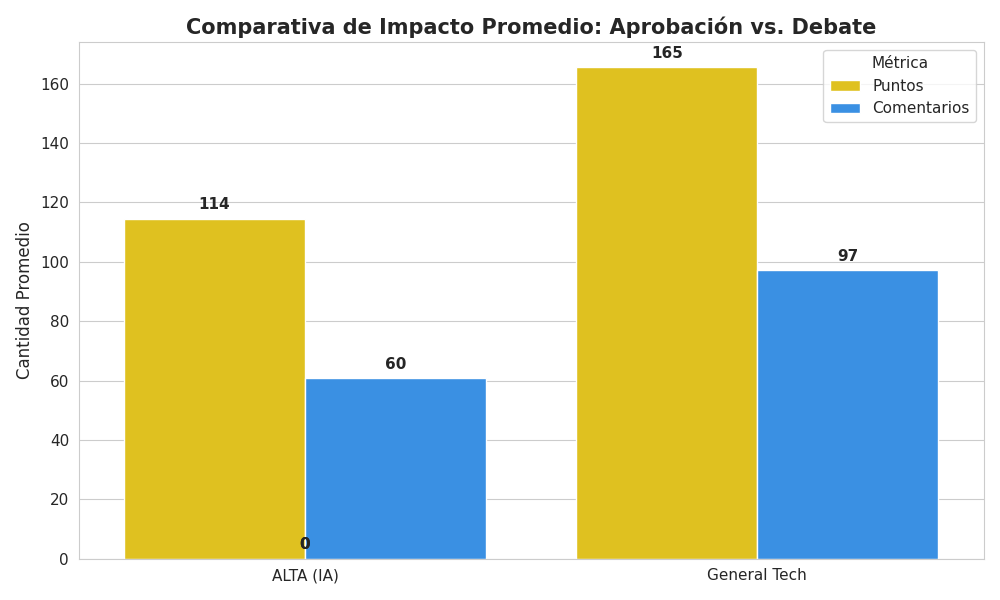
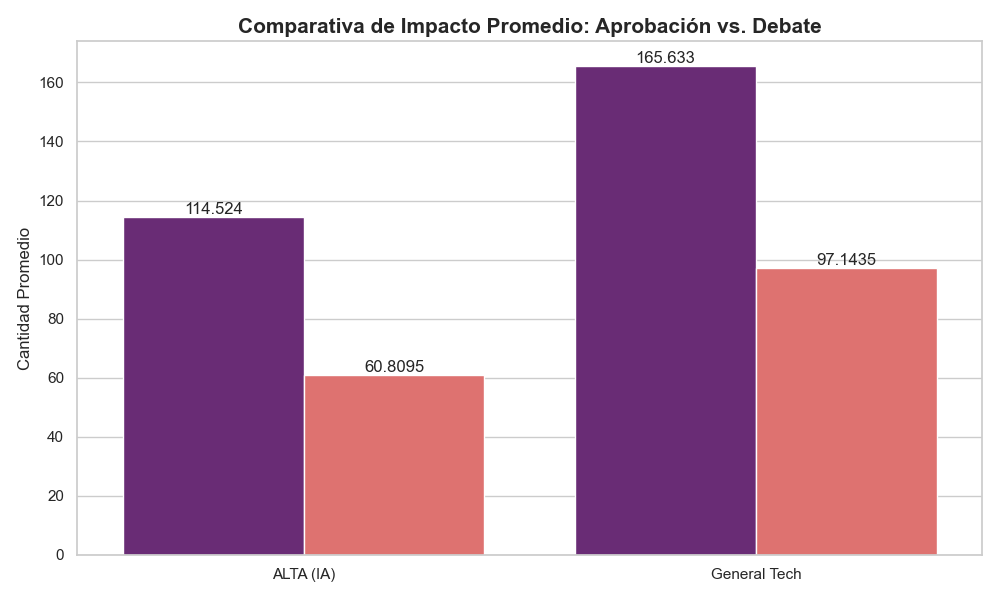
chore: figures

diff --git a/visualization/bruno/graphics_bruno.py b/visualization/bruno/graphics_bruno.py
@@ -2,8 +2,11 @@ import pandas as pd
 import matplotlib.pyplot as plt
 import seaborn as sns
 import re
+import os
 
-archivo = '../../data/romero.csv' 
+script_dir = os.path.dirname(os.path.abspath(__file__))
+archivo = os.path.join(script_dir, '../../data/romero.csv')
+
 print(f"Cargando datos desde: {archivo}")
 
 try:
@@ -23,8 +26,8 @@ def limpiar_numero(valor):
 df['Puntos'] = df['Puntos'].apply(limpiar_numero)
 df['Comentarios'] = df['Comentarios'].apply(limpiar_numero)
 
-sns.set_style("whitegrid")
-plt.rcParams.update({'font.size': 11})
+sns.set_theme(style="whitegrid")
+plt.rcParams['figure.figsize'] = (10, 6)
 
 # ==============================================================================
 # GRÁFICO 1: PIE CHART
@@ -35,13 +38,11 @@ conteo = df['Relevancia'].value_counts()
 colores = {'ALTA (IA)': '#ff6b6b', 'General Tech': '#4ecdc4'}
 
 plt.pie(conteo, labels=conteo.index, autopct='%1.1f%%', 
-        startangle=140, colors=[colores.get(x, '#999999') for x in conteo.index],
-        explode=(0.05, 0), shadow=True, textprops={'fontsize': 14, 'weight': 'bold'})
+        startangle=140, colors=[colores.get(x, '#999999') for x in conteo.index], textprops={'fontsize': 14, 'weight': 'bold'})
 
 plt.title('Distribución de Noticias: IA vs Tecnología General', fontsize=16, fontweight='bold')
 plt.tight_layout()
-plt.savefig('question1.png')
-#print("Gráfico 1 generado")
+plt.savefig(os.path.join(script_dir, 'question1.png'))
 
 # ==============================================================================
 # GRÁFICO 2: BARRAS DE IMPACTO PROMEDIO
@@ -53,22 +54,22 @@ promedios = df.groupby('Relevancia')[['Puntos', 'Comentarios']].mean().reset_ind
 
 df_melted = promedios.melt(id_vars='Relevancia', var_name='Métrica', value_name='Promedio')
 
-sns.barplot(data=df_melted, x='Relevancia', y='Promedio', hue='Métrica', 
-            palette={'Puntos': '#FFD700', 'Comentarios': '#1E90FF'})
+ax = sns.barplot(data=df_melted, x='Relevancia', y='Promedio', hue='Métrica', 
+            palette='magma')
 
-plt.title('Comparativa de Impacto Promedio: Aprobación vs. Debate', fontsize=15, fontweight='bold')
+plt.title('Comparativa de Impacto Promedio: Aprobación vs. Debate', fontsize=16, fontweight='bold')
 plt.ylabel('Cantidad Promedio', fontsize=12)
 plt.xlabel('')
 
-for p in plt.gca().patches:
-    plt.gca().annotate(f'{int(p.get_height())}', 
-                       (p.get_x() + p.get_width() / 2., p.get_height()), 
-                       ha = 'center', va = 'center', xytext = (0, 10), 
-                       textcoords = 'offset points', fontweight='bold')
+ax.legend().remove()
+
+# Agregar valores en las barras
+for container in ax.containers:
+    tmp_hue = df_melted.loc[df_melted['Métrica']==container.get_label()]
+    ax.bar_label(container, labels=tmp_hue['Promedio'])
 
 plt.tight_layout()
-plt.savefig('question2.png')
-#print("Gráfico 2 generado")
+plt.savefig(os.path.join(script_dir, 'question2.png'))
 
 # ==============================================================================
 # GRÁFICO 3: TOP FUENTES DE IA
@@ -80,12 +81,11 @@ df_ia = df[df['Relevancia'] == 'ALTA (IA)'].copy()
 
 top_fuentes = df_ia['Sitio'].value_counts().head(7)
 
-sns.barplot(x=top_fuentes.values, y=top_fuentes.index, palette='magma')
+sns.barplot(x=top_fuentes.values, y=top_fuentes.index, hue=top_fuentes.index, palette='magma')
 
-plt.title('Top 7 Fuentes de Noticias sobre IA', fontsize=15, fontweight='bold')
+plt.title('Top 7 Fuentes de Noticias sobre IA', fontsize=16, fontweight='bold')
 plt.xlabel('Cantidad de Noticias', fontsize=12)
 plt.ylabel('Sitio Web', fontsize=12)
 
 plt.tight_layout()
-plt.savefig('question3.png')
-#print("Gráfico 3 generado")
+plt.savefig(os.path.join(script_dir, 'question3.png'))

diff --git a/visualization/david/graphics_david.py b/visualization/david/graphics_david.py
@@ -74,10 +74,16 @@ ordered_percentages = sorted(percentages.items(), key=lambda x: x[1], reverse=Tr
 
 df_1 = pd.DataFrame(ordered_percentages, columns=['Company', 'Percentage'])
 
-sns.barplot(x='Percentage', y='Company', hue='Company', data=df_1)
-plt.title('% de Titulares que mencionan empresas líderes')
+ax = sns.barplot(x='Percentage', y='Company', hue='Company', data=df_1)
+
+plt.title('% de Titulares que mencionan empresas líderes', fontsize=16, fontweight='bold')
 plt.xlabel('% de Titulares')
 plt.ylabel('Empresa')
+
+for container in ax.containers:
+    tmp_hue = df_1.loc[df_1['Company']==container.get_label()]
+    ax.bar_label(container, labels=tmp_hue['Percentage'])
+
 plt.savefig(os.path.join(script_dir, 'question1.png'))
 plt.show()
 plt.clf()
@@ -318,12 +324,17 @@ technification_ratio = technification_level[3] / (technification_level[1] + tech
 
 df_2 = pd.DataFrame(list(technification_level.items()), columns = ['Level', 'Count'])
 
-ax = sns.barplot(data=df_2, x='Level', y='Count', hue='Level')
+ax = sns.barplot(data=df_2, x='Level', y='Count', hue='Level', palette='flare')
 
-plt.title('Frecuencia de Términos Técnicos en Titulares', fontsize=14)
+plt.title('Frecuencia de Términos Técnicos en Noticias', fontsize=16, fontweight='bold')
 plt.ylabel('Número de Noticias', fontsize=12)
 plt.xlabel('Nivel de Especialización', fontsize=12)
 plt.xticks([0, 1, 2], ["Divulgativos", "Conceptuales", "Técnicos"])
+
+for container in ax.containers:
+    tmp_hue = df_2.loc[df_2['Level']==container.get_label()]
+    ax.bar_label(container, labels=tmp_hue['Count'])
+
 ax.legend().remove()
 plt.savefig(os.path.join(script_dir, 'question2.png'))
 plt.show()
@@ -403,12 +414,18 @@ ordered_percentages_2 = sorted(percentages_2.items(), key=lambda x: x[1], revers
 
 df_3 = pd.DataFrame(ordered_percentages_2, columns=['Category', 'Percentage'])
 
-sns.barplot(x='Percentage', y='Category', hue='Category', data=df_3)
+ax = sns.barplot(x='Percentage', y='Category', hue='Category', data=df_3)
+
 plt.subplots_adjust(left=0.22)
-plt.title('Categorías de Noticias')
+plt.title('Categorías de Noticias', fontsize=16, fontweight='bold')
 plt.xlabel('% de Noticias')
 plt.ylabel('Categoría')
 plt.yticks(['Generative AI & LLMs', 'Computer Vision', 'Machine Learning & Data Science', 'Robotics & Automation', 'Autonomous Vehicles', 'Ethics, Safety & Regulation', 'Hardware & Infrastructure', 'Healthcare & Biotech', 'Enterprise & Business Applications'], ['IA Generativa', 'Visión por Computadora', 'ML & Datos', 'Robótica', 'Vehículos Autónomos', 'Ética y Regulación', 'Hardware', 'Salud & Biotecnología', 'IA Empresarial'])
+
+for container in ax.containers:
+    tmp_hue = df_3.loc[df_3['Category']==container.get_label()]
+    ax.bar_label(container, labels=tmp_hue['Percentage'])
+
 plt.savefig(os.path.join(script_dir, 'question3.png'))
 plt.show()
 plt.clf()
